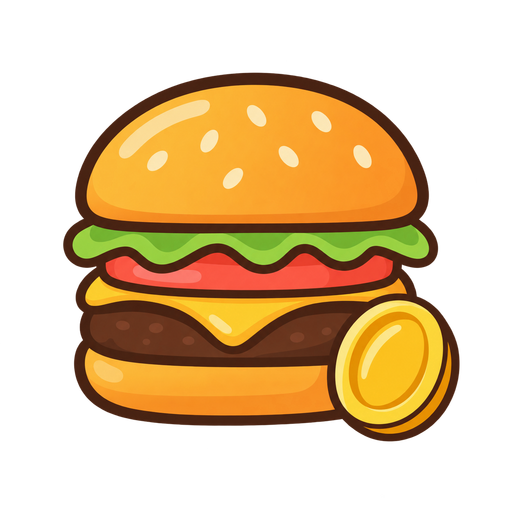
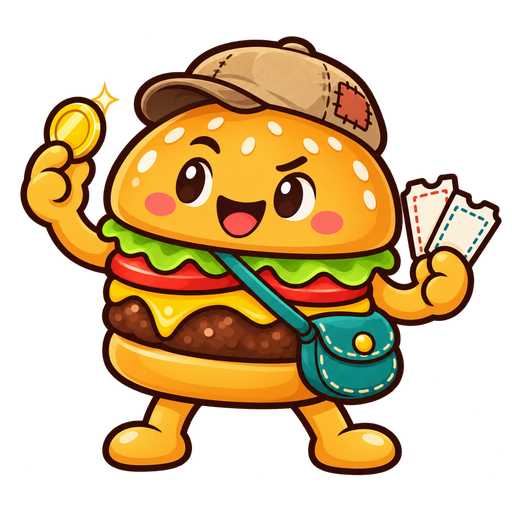
[AI] 更新穷鬼助手为拟人汉堡头像

diff --git a/docs/头像说明.md b/docs/头像说明.md
@@ -1,7 +1,12 @@
 # 麦当劳穷鬼助手头像
 
-由 Codex 内置 imagegen 生成，以 Sharp 等比缩小并无损压缩到512×512透明PNG，低于500,000字节。
+由 Codex 内置 imagegen 参考麦当劳富哥助手头像的构图和卡通风格生成，以 Sharp 等比缩小并无损压缩到 512×512 透明 PNG，低于 500,000 字节。
 
-提示词摘要：简约居中汉堡配金币，暖金色与珊瑚色，粗线条；square skill avatar; transparent background; no text, letters, logos or watermark; legible at 32 pixels。
+提示词摘要：与富哥助手同系列的拟人汉堡角色，粗深棕色轮廓、暖金色面包与活泼表情；戴带补丁的布帽、背青绿色零钱包，一手举金币、一手拿优惠券，体现聪明省钱的幽默感。主体居中、完整四肢、透明背景，无文字、字母、水印或品牌标志。
 
-不使用麦当劳品牌标志；资产为个人技能插画。文件 assets/头像.png。精确大小与SHA-256见交付校验清单。
+不使用麦当劳品牌标志；资产为个人技能插画。README 展示和头像下载均使用 assets/头像.png。
+
+- 格式：PNG，透明背景。
+- 尺寸：512×512 px。
+- 文件大小：309375 字节。
[1 lines of base64/hex data omitted]
